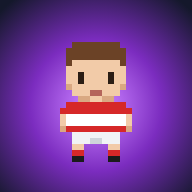
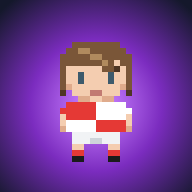
Giuli con su peinado real y la camiseta de Universitario
Pelo castaño ondulado con flequillo de costado y largo atrás,
camiseta a cuartos rojo y blanco, escudo del club en la interfaz
e íconos actualizados.

Claude-Session: https://claude.ai/code/session_01UkEZer2ipDPG4zzgpKRrQb

diff --git a/js/data.js b/js/data.js
@@ -8,6 +8,8 @@ export const PLAYER = {
   fullName: 'Giuliano Cicconi',
   position: 'Medio Scrum',
   number: 9,
+  club: 'Club Universitario',
+  clubShort: 'La U',
 };
 
 export const STATS = {
@@ -228,7 +230,7 @@ export const ZONES = {
   barrio: { name: 'El Barrio', monsters: ['duda', 'excusa', 'chatarra', 'procrastinacion'] },
   plaza: { name: 'La Plaza', monsters: ['ansiedad', 'duda'] },
   gym: { name: 'El Gym', monsters: ['chatarra', 'excusa', 'sillon'] },
-  club: { name: 'El Club', monsters: ['miedo', 'ansiedad', 'excusa'] },
+  club: { name: 'Club Universitario', monsters: ['miedo', 'ansiedad', 'excusa'] },
   facu: { name: 'La Facultad', monsters: ['parcial', 'duda', 'procrastinacion', 'cliente'] },
   cole: { name: 'Colegio Fátima', monsters: [] },
 };
@@ -253,8 +255,9 @@ export const CONSUMABLES = [
 // Cosméticos (skins). slot: jersey | head | hair | boots | pet
 export const COSMETICS = [
   // Camisetas
-  { id: 'club', slot: 'jersey', name: 'Club (aros rojo y blanco)', price: 0, look: { pattern: 'hoops', a: '#d62828', b: '#ffffff', n: '#1b1b1b' } },
-  { id: 'club2', slot: 'jersey', name: 'Club (bastones rojo y blanco)', price: 0, look: { pattern: 'vstripes', a: '#d62828', b: '#ffffff', n: '#1b1b1b' } },
+  { id: 'club', slot: 'jersey', name: 'Universitario (cuartos rojo y blanco)', price: 0, look: { pattern: 'quarters', a: '#e53935', b: '#ffffff', n: '#1b1b1b' } },
+  { id: 'club2', slot: 'jersey', name: 'Aros rojo y blanco', price: 0, look: { pattern: 'hoops', a: '#e53935', b: '#ffffff', n: '#1b1b1b' } },
+  { id: 'club3', slot: 'jersey', name: 'Bastones rojo y blanco', price: 60, look: { pattern: 'vstripes', a: '#e53935', b: '#ffffff', n: '#1b1b1b' } },
   { id: 'clubalt', slot: 'jersey', name: 'Alternativa blanca', price: 150, look: { pattern: 'solid', a: '#f8f9fa', b: '#d62828', n: '#d62828' } },
   { id: 'entreno', slot: 'jersey', name: 'Remera de entreno', price: 80, look: { pattern: 'solid', a: '#6c757d', b: '#495057', n: '#fff' } },
   { id: 'albiceleste', slot: 'jersey', name: 'Albiceleste', price: 300, look: { pattern: 'vstripes', a: '#74c0fc', b: '#ffffff', n: '#1d3557' } },
@@ -270,6 +273,7 @@ export const COSMETICS = [
   { id: 'auris', slot: 'head', name: 'Auriculares', price: 200 },
   { id: 'corona', slot: 'head', name: 'Corona de Aura', price: 0, unlock: 'aura_100k' },
   // Peinados
+  { id: 'giuli', slot: 'hair', name: 'El de Giuli (ondulado)', price: 0, look: { style: 'giuli', c: '#7a5638', d: '#4e3524', l: '#b08a5e' } },
   { id: 'corto', slot: 'hair', name: 'Corto castaño', price: 0, look: { style: 'corto', c: '#6b4226', d: '#4a2c17' } },
   { id: 'flequillo', slot: 'hair', name: 'Flequillo', price: 100, look: { style: 'flequillo', c: '#6b4226', d: '#4a2c17' } },
   { id: 'largo', slot: 'hair', name: 'Pelo largo', price: 120, look: { style: 'largo', c: '#6b4226', d: '#4a2c17' } },
@@ -380,6 +384,8 @@ export const COACH_TIPS = [
   'Entrenador: "Si fallás un pase, el próximo lo das el doble de rápido."',
   'Entrenador: "Hablá con tus forwards. Que te escuchen desde la otra punta."',
   'Entrenador: "El aura no se compra. Se gana en la cancha y en la vida."',
+  'Entrenador: "Todo rojo y blanco, Giuli. La U se defiende en cada tackle."',
+  'Entrenador: "Desde 1907 este club se banca todo. Vos también."',
 ];
 export const DOG_LINES = {
   piti: ['Piti mueve la colita a mil 🌭', 'Piti te mira con ojitos de "¿salimos?"', 'Piti se tira panza arriba. Pedido de mimos.'],

diff --git a/js/pixel.js b/js/pixel.js
@@ -32,7 +32,7 @@ const P_UP = [
   '...HHHHHHHHHH...',
   '...HHHHHHHHHH...',
   '...HHHHHHHHHH...',
-  '...hHHHHHHHHh...',
+  '...HHHHHHHHHH...',
   '...ShhhhhhhhS...',
   '....SSSSSSSS....',
   '.....ssSSss.....',
@@ -305,7 +305,29 @@ function shade(hex, f) {
 function applyHair(tpl, style, dir) {
   const t = tpl.map((r) => r.split(''));
   const set = (x, y, ch) => { if (t[y] && t[y][x] !== undefined) t[y][x] = ch; };
-  if (style === 'rapado') {
+  if (style === 'giuli') {
+    if (dir === 'down') {
+      // costados hasta la oreja
+      for (const x of [2, 13]) for (let y = 2; y <= 7; y++) set(x, y, 'H');
+      set(2, 8, 'h'); set(13, 8, 'h');
+      // flequillo barrido hacia un costado
+      for (let x = 3; x <= 10; x++) set(x, 3, 'H');
+      set(9, 4, 'H'); set(10, 4, 'H'); set(11, 4, 'h');
+      // reflejo claro siguiendo el barrido
+      set(5, 1, 'L'); set(6, 1, 'L'); set(7, 2, 'L'); set(8, 2, 'L'); set(9, 3, 'L');
+    } else if (dir === 'up') {
+      for (const x of [2, 13]) for (let y = 2; y <= 8; y++) set(x, y, 'H');
+      for (let x = 3; x <= 12; x++) { set(x, 7, 'H'); set(x, 8, 'h'); }
+      for (let x = 5; x <= 10; x++) set(x, 9, 'h');
+      set(5, 1, 'L'); set(6, 1, 'L'); set(7, 2, 'L'); set(8, 3, 'L');
+    } else {
+      for (let y = 3; y <= 9; y++) set(3, y, 'H');
+      for (let y = 7; y <= 9; y++) set(4, y, 'h');
+      for (let x = 8; x <= 12; x++) set(x, 3, 'H');
+      set(12, 4, 'h');
+      set(6, 1, 'L'); set(7, 2, 'L'); set(8, 2, 'L'); set(9, 3, 'L');
+    }
+  } else if (style === 'rapado') {
     for (let x = 0; x < 16; x++) { if (t[0][x] === 'H') t[0][x] = '.'; }
     if (dir !== 'up') for (let x = 0; x < 16; x++) { if (t[1][x] === 'H') t[1][x] = '.'; }
   } else if (style === 'largo') {
@@ -341,16 +363,17 @@ export function playerSprite(look, dir = 'down', frame = 0, mode = null) {
     tpl = [...tpl.slice(0, 17), ...legs];
     const j = look.jersey || { pattern: 'hoops', a: '#d62828', b: '#fff', n: '#1b1b1b' };
     let pal = {
-      H: look.hair?.c || '#6b4226', h: look.hair?.d || '#4a2c17',
-      S: '#f2cba8', s: '#d9a882', E: '#2b1d14', M: '#b5655b',
+      H: look.hair?.c || '#6b4226', h: look.hair?.d || '#4a2c17', L: look.hair?.l || look.hair?.c || '#a07a50',
+      S: '#f4cdb0', s: '#dfab8c', E: '#3d5a6c', M: '#c27a72',
       P: '#f1f3f5', p: '#ced4da', K: j.a, O: look.boots?.c || '#1b1b1b',
     };
     if (mode === 'rival') {
-      pal = { ...pal, H: '#1b1b1b', h: '#000', S: '#c68642', s: '#a0522d', P: '#1d3557', p: '#14213d', K: '#ffd60a', O: '#111' };
+      pal = { ...pal, H: '#1b1b1b', h: '#000', L: '#1b1b1b', S: '#c68642', s: '#a0522d', P: '#1d3557', p: '#14213d', K: '#ffd60a', O: '#111' };
     }
     const jersey = (x, y) => {
       if (mode === 'rival') return (Math.floor((y - 10) / 2) % 2 === 0) ? '#1d3557' : '#ffd60a';
       switch (j.pattern) {
+        case 'quarters': return ((x < 8) === (y < 13)) ? j.a : j.b;
         case 'hoops': return (Math.floor((y - 10) / 2) % 2 === 0) ? j.a : j.b;
         case 'vstripes': return (Math.floor(x / 2) % 2 === 0) ? j.a : j.b;
         case 'halves': return x < 8 ? j.a : j.b;

diff --git a/js/ui.js b/js/ui.js
@@ -8,6 +8,16 @@ import { playerSprite, dogSprite } from './pixel.js';
 import { sfx } from './audio.js';
 import { $, $$, fmt, signed, esc, timeAgo, dayKey } from './util.js';
 
+// Escudo del club (dibujado en SVG)
+export function crest(size = 40) {
+  return `<svg class="crest" width="${size}" height="${size * 1.15}" viewBox="0 0 100 115" aria-label="Escudo Club Universitario">
+    <path d="M10 8 Q30 2 50 4 Q70 2 90 8 Q86 14 90 22 L90 62 Q90 92 50 110 Q10 92 10 62 L10 22 Q14 14 10 8 Z" fill="#fff" stroke="#14141a" stroke-width="7" stroke-linejoin="round"/>
+    <rect x="13" y="40" width="74" height="20" fill="#e53935"/>
+    <path d="M30 20 h16 v6 h-4 v32 q0 12 8 12 q8 0 8 -12 v-32 h-4 v-6 h16 v6 h-4 v32 q0 22 -20 22 q-20 0 -20 -22 v-32 h-4 z" fill="#14141a"/>
+    <text x="50" y="98" text-anchor="middle" font-family="Georgia, serif" font-size="13" fill="#14141a">1907</text>
+  </svg>`;
+}
+
 export const ui = { tab: 'home', cat: 'rugby', shopTab: 'consumables' };
 
 // ---------------- barra superior ----------------
@@ -74,14 +84,15 @@ function homeHTML() {
   return `
   <section class="season ${se.type}">
     <div><b>${se.short}</b><span>${esc(se.name)}</span></div>
+    ${se.type === 'temporada' ? `<div class="todo-rojo">${crest(22)} #TodoRojoYBlanco</div>` : ''}
     <p>${esc(se.desc)}</p>
   </section>
 
   <section class="card hero">
     <div class="portrait"><canvas id="portrait" width="200" height="240"></canvas></div>
     <div class="hero-info">
-      <h1>${PLAYER.name} <small>#${PLAYER.number}</small></h1>
-      <div class="sub">${PLAYER.position} · Nivel ${St.level()}</div>
+      <div class="name-row"><h1>${PLAYER.name} <small>#${PLAYER.number}</small></h1>${crest(30)}</div>
+      <div class="sub">${PLAYER.position} · ${PLAYER.club} · Nivel ${St.level()}</div>
       <div class="aura-rank" style="--c:${rk.color}">
         <div class="ar-top"><span>🗿 ${esc(rk.name)}</span><b>${fmt(S.aura)}</b></div>
         <div class="bar"><i style="width:${(pctNext * 100).toFixed(1)}%;background:${rk.color}"></i></div>

diff --git a/js/main.js b/js/main.js
@@ -3,7 +3,7 @@
 // =============================================================
 import * as St from './state.js';
 import { S } from './state.js';
-import { ui, render, renderNav, renderTop, setGoTab, modal, closeModal, toast, onGains, onLevelUp, onAchievement, onAuraRank } from './ui.js';
+import { crest, ui, render, renderNav, renderTop, setGoTab, modal, closeModal, toast, onGains, onLevelUp, onAchievement, onAuraRank } from './ui.js';
 import { initWorld, startWorld, stopWorld, resizeWorld, bindJoystick, removeMonster, worldSay, teleportHome } from './world.js';
 import { startBattle } from './battle.js';
 import { kicks, tryRun, mash, trivia } from './minigames.js';
@@ -119,8 +119,8 @@ function onDoor(id) {
     club: () => {
       const se = St.season();
       modal(`
-        <h2>🏉 El Club</h2>
-        <p>${se.type === 'vacaciones' ? 'Pretemporada: la cancha está libre para practicar.' : 'Temporada en marcha. ¡Se juega el sábado!'}</p>
+        <div class="intro-crest">${crest(48)}</div><h2>🏉 Club Universitario</h2>
+        <p>${se.type === 'vacaciones' ? 'Pretemporada: la cancha está libre para practicar.' : 'Temporada en marcha. ¡Todo rojo y blanco, se juega el sábado!'}</p>
         <div class="opts">
           <button class="btn big" id="o1">🦶 Patadas a los palos (1 ⚡)</button>
           <button class="btn big" id="o2">🏃 Corrida al try (1 ⚡)</button>
@@ -169,6 +169,7 @@ function onDoor(id) {
 function intro() {
   if (S.seen.intro) return;
   modal(`
+    <div class="intro-crest">${crest(56)}</div>
     <h2>¡Bienvenido, ${PLAYER.name}! 🏉</h2>
     <p>Esto es tu vida convertida en juego.</p>
     <ol class="intro">

diff --git a/js/state.js b/js/state.js
@@ -19,7 +19,7 @@ export function defaultState() {
     inv: { mate: 2, alfajor: 2 },
     owned: COSMETICS.filter((c) => c.price === 0 && !c.unlock).map((c) => c.id),
     bought: 0,
-    equip: { jersey: 'club', head: 'none', hair: 'corto', boots: 'negros', pet: 'ambos' },
+    equip: { jersey: 'club', head: 'none', hair: 'giuli', boots: 'negros', pet: 'ambos' },
     ach: {}, defeated: {}, wins: 0, losses: 0,
     weekClaims: {}, seasonClaims: {}, custom: [],
     lastDay: dayKey(), restDay: null, petDay: {},
@@ -51,6 +51,10 @@ export function load() {
   }
   // asegurar cosméticos gratis nuevos
   for (const c of COSMETICS) if (c.price === 0 && !c.unlock && !S.owned.includes(c.id)) S.owned.push(c.id);
+  if (!S.seen.look2) {
+    S.seen.look2 = true;
+    if (S.equip.hair === 'corto') S.equip.hair = 'giuli';
+  }
   dailyTick();
   S.hp = Math.min(S.hp, maxHp());
   S.energy = Math.min(S.energy, maxEnergy());

diff --git a/css/style.css b/css/style.css
@@ -264,3 +264,8 @@ h3 { font-size: 14px; color: var(--muted); margin-top: 14px; }
   100% { opacity: 0; transform: scale(1.05) translateY(-30px); }
 }
 @media (max-width: 380px) { .res { font-size: 11.5px; } .portrait { width: 110px; height: 132px; } .tgrid.four { grid-template-columns: repeat(2, 1fr); } }
+
+.name-row { display: flex; align-items: center; gap: 10px; justify-content: space-between; }
+.crest { flex: none; filter: drop-shadow(0 2px 3px #0008); }
+.todo-rojo { justify-content: flex-start !important; align-items: center !important; margin-top: 6px; font-weight: 800; font-size: 13px; }
+.intro-crest { display: flex; justify-content: center; margin-bottom: 8px; }

diff --git a/js/world.js b/js/world.js
@@ -93,7 +93,7 @@ function build() {
 
   // ---- CLUB DE RUGBY (abajo a la derecha)
   zone(33, 25, 30, 22, 'club');
-  building(34, 26, 8, 5, 'club', 'CLUB', '#d62828');
+  building(34, 26, 8, 5, 'club', 'LA U', '#e53935');
   rect(34, 32, 28, 15, FENCE);
   fill(35, 33, 26, 13, PITCH);
   // líneas: try, 22, mitad

diff --git a/sw.js b/sw.js
@@ -1,5 +1,5 @@
 // Service worker: permite jugar sin internet
-const CACHE = 'giuli-rpg-v1';
+const CACHE = 'giuli-rpg-v2';
 const FILES = [
   './', './index.html', './css/style.css', './manifest.webmanifest',
   './js/main.js', './js/ui.js', './js/state.js', './js/data.js', './js/util.js',
